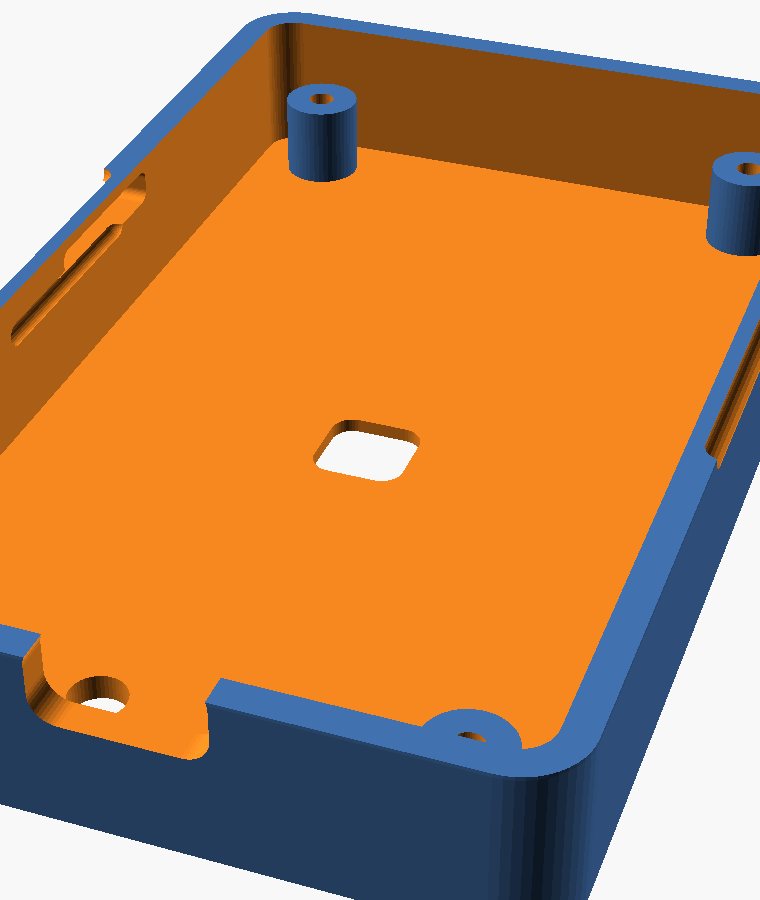
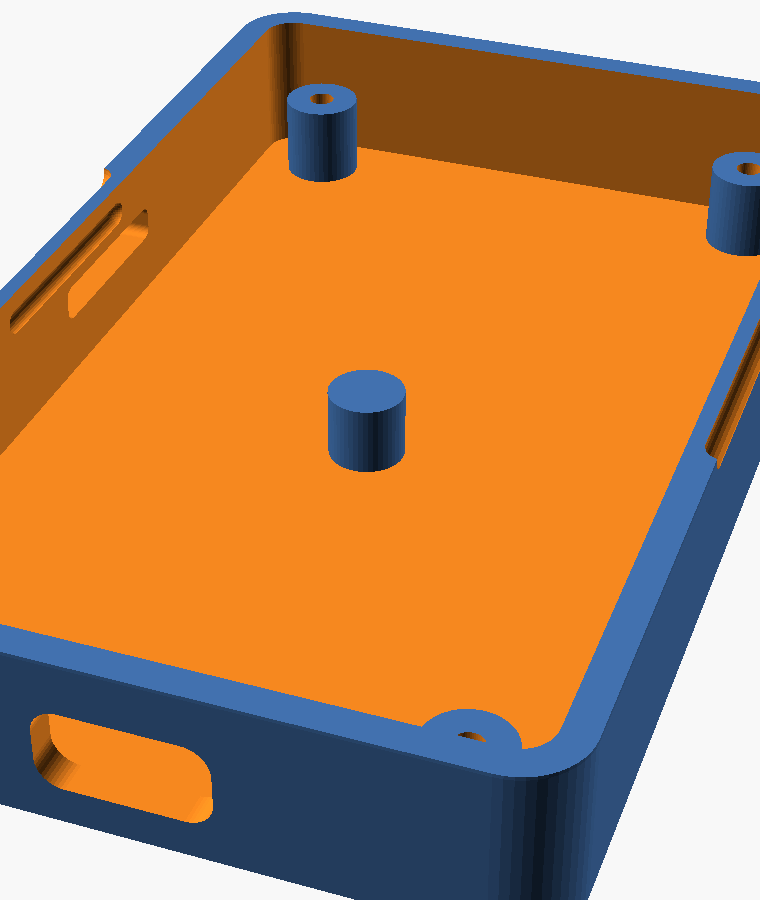
CYD : connecteurs sous la carte, et plot de lumiere plein
Deux corrections signalees par l'utilisateur.

L'USB-C et le lecteur SD sont soudes AU DOS de la carte : leur corps
pend SOUS elle, entre le fond et la carte. Je les avais cales sur la
face ecran, donc 5 mm trop haut. Ils se placent maintenant par rapport
a la face arriere, et l'USB-C est descendu pour que son ouverture
s'arrete 0.2 sous le bord de la jupe.

La LED ne veut pas d'insert : l'utilisateur imprime tout le boitier en
PETG transparent, il lui faut juste de la matiere qui relie la LED au
fond. Nouveau type de decoupe « pipe » - un plot PLEIN monte du fond,
sans trou ni piece rapportee - ajoute a la palette sous « Plot de
lumiere ». Sur le CYD il monte a 5.5, soit 1.5 sous la carte pour
loger le corps de la LED.

Au passage, un troisieme bug : SKIRT_H et LID_BAND etaient figes a 7 et
9 dans le builder, ecrits avant que la hauteur de jupe soit reglable.
L'avertissement « traverse la jupe » restait donc allume sur un
boitier plat dont les decoupes passaient pourtant dessous, et la bande
dessinee sur les parois etait fausse. Les deux suivent le reglage.

Et snap_z, fige a 3.5 sous le joint, tombait sous le bord libre d'une
jupe courte : les bossages ne retenaient plus rien. Borne a 60 % de la
hauteur de jupe, sans changement a la valeur par defaut.

Le modele CYD ne leve plus aucun avertissement. Fond et couvercle :
Simple yes, 2 volumes.

Changed region(s): [[0.0303, 0.6844, 0.3026, 0.9333], [0.0, 0.1867, 0.2118, 0.3733], [0.3934, 0.4044, 0.575, 0.56]]

diff --git a/builder.html b/builder.html
@@ -509,6 +509,9 @@ const EN = {
   'Grille ronde': 'Round grid', 'Nid d\'abeille': 'Honeycomb',
   'Rect libre': 'Custom rect', 'Rond libre': 'Custom hole',
   'Guide LED 1.75': 'LED pipe 1.75', 'Poussoir 7': 'Push btn 7',
+  'Plot de lumière': 'Light post', 'Ø 6 · plein': 'Ø 6 · solid',
+  'Plot PLEIN monté du fond jusque sous une LED soudée au dos de la carte. Aucun trou : dans un boîtier translucide, c\'est la matière qui conduit la couleur jusqu\'à la paroi. Largeur = diamètre, hauteur = jusqu\'où il monte.':
+    'A SOLID post from the floor up under an LED soldered on the back of the board. No hole: in a translucent case the material itself carries the colour to the wall. Width = diameter, height = how far up it goes.',
   'Poussoir 12': 'Push btn 12',
   '8.7 × 2.9 · support': '8.7 × 2.9 · mount',
   'Ø 1.8 · filament': 'Ø 1.8 · filament',
@@ -773,7 +776,7 @@ Object.assign(EN, {
   'CYD jaune ESP32-2432S028R — 2.8″': 'Yellow CYD ESP32-2432S028R — 2.8″',
   'Le « cheap yellow display » : carte 50 × 86 vissée par l’avant sur quatre entretoises, dalle 2.8″ affleurant le couvercle, USB-C, RESET/BOOT, lecteur microSD et guide de lumière au-dessus de la LED RGB.':
     'The “cheap yellow display”: 50 × 86 board screwed from the front onto four standoffs, 2.8″ panel flush with the lid, USB-C, RESET/BOOT, microSD reader and a light guide above the RGB LED.',
-  'Écran 2.8″ 240×320': '2.8″ 240×320 screen', 'Guide LED RGB': 'RGB LED guide',
+  'Écran 2.8″ 240×320': '2.8″ 240×320 screen', 'Plot LED RGB': 'RGB LED post',
   'Projet complet : boîte 176 × 117 × 45, écran clipsé sous le couvercle avec sa fenêtre décalée, la caméra qui regarde au-dessus de l’écran, et les 7 ouvertures de bord (USB-A, 2× USB-C, microSD, ON/OFF, RESET, BOOT) à la bonne altitude.':
     'Complete project: 176 × 117 × 45 box, display clipped under the lid with its offset window, the camera looking out above the screen, and the 7 edge openings (USB-A, 2× USB-C, microSD, ON/OFF, RESET, BOOT) at the right height.',
   'Accès bouton': 'Button access', '151.6 × 83.4 · couvercle': '151.6 × 83.4 · lid',
@@ -841,8 +844,11 @@ function setLang(l) {
 // Constantes géométrie (doivent suivre esp32-box.scad)
 // ---------------------------------------------------------------
 const CORNER_R = 9;      // rayon des coins
-const LID_BAND = 9;      // zone haute affichée (jupe + rainure de clip)
-const SKIRT_H = 7;       // jupe réelle du couvercle (lip_h du .scad)
+// Jupe réelle du couvercle : elle suit le réglage, elle n'est plus figée
+// à 7. Sans ça, l'avertissement « traverse la jupe » restait allumé sur
+// un boîtier plat dont les découpes passaient pourtant dessous.
+const skirtH = () => state.lipH;
+const lidBand = () => state.lipH + 2;   // jupe + rainure de clip, à l'écran
 const GRID = 0.5;        // pas de la grille (mm)
 const SNAP_TOL = 5;      // tolérance d'aimantation (px)
 
@@ -923,6 +929,8 @@ const PALETTE = [
     tip: 'Jack audio 3.5 mm châssis : se visse dans la paroi avec son écrou' },
   { label: 'Guide LED 1.75', sub: 'Ø 1.8 · filament', type: 'circle', d: 1.8,
     tip: 'Bout de filament transparent en guide de lumière pour une LED témoin' },
+  { label: 'Plot de lumière', sub: 'Ø 6 · plein', type: 'pipe', w: 6, h: 6, floorOnly: true,
+    tip: 'Plot PLEIN monté du fond jusque sous une LED soudée au dos de la carte. Aucun trou : dans un boîtier translucide, c\'est la matière qui conduit la couleur jusqu\'à la paroi. Largeur = diamètre, hauteur = jusqu\'où il monte.' },
   { label: 'Poussoir 7',   sub: 'Ø 7.2',    type: 'circle', d: 7.2,
     tip: 'Petit bouton poussoir châssis 7 mm (type PBS-110)' },
   { label: 'Poussoir 12',  sub: 'Ø 12.2',   type: 'circle', d: 12.2,
@@ -1286,7 +1294,7 @@ function render() {
     const cw = CORNER_R * S;
     g.push(`<rect x="${x0}" y="${y0}" width="${cw}" height="${fh * S}" fill="rgba(240,179,80,.06)"/>`);
     g.push(`<rect x="${x0 + fw * S - cw}" y="${y0}" width="${cw}" height="${fh * S}" fill="rgba(240,179,80,.06)"/>`);
-    g.push(`<rect x="${x0}" y="${y0}" width="${fw * S}" height="${LID_BAND * S}" fill="rgba(240,179,80,.08)"/>`);
+    g.push(`<rect x="${x0}" y="${y0}" width="${fw * S}" height="${lidBand() * S}" fill="rgba(240,179,80,.08)"/>`);
     g.push(`<text pointer-events="none" x="${x0 + fw * S / 2}" y="${y0 + 13}" fill="#5b6274" font-size="10" text-anchor="middle">${t('jupe + clips du couvercle')}</text>`);
   } else {
     // coins arrondis de la boîte
@@ -1689,7 +1697,7 @@ function cutNotes(c) {
   if (isFlat(c.face)) return [];
   const hh = c.type === 'circle' || isBtnType(c.type) ? c.d / 2
            : c.type === 'usbc' ? 5 : c.h / 2;
-  return (c.z + hh > state.inner.h - SKIRT_H)
+  return (c.z + hh > state.inner.h - skirtH())
     ? [t('traverse la jupe — régénère le couvercle')] : [];
 }
 
@@ -2906,6 +2914,10 @@ function applyTemplateCYD() {
   const IH = SH + PCB_T + SCR_H;                 // 12 : la dalle touche le couvercle
   const W = PCB_W + 2 * JEU, D = PCB_D + 2 * JEU;
   const dessus = SH + PCB_T;       // face écran, depuis le fond intérieur
+  // L'USB-C et le lecteur SD sont montés au DOS : leur corps pend SOUS
+  // la carte, entre le fond et elle. Leurs ouvertures se placent donc
+  // par rapport à SH, la face arrière, et non par rapport à la dalle.
+  const dos = SH;
 
   // Repère : Y+ vers le HAUT de la carte, le port USB-C est en bas.
   const haut = y => r1(PCB_D / 2 - y);      // cote donnée depuis le bord haut
@@ -2945,21 +2957,25 @@ function applyTemplateCYD() {
           z: bas(6.5), d: 4 });
 
   // LED RGB : 4 × 4, centrée en largeur, à 44 du bord haut. Elle éclaire
-  // vers le fond : le guide de lumière est donc dans le fond, à imprimer
-  // en PETG — c'est lui qui ressort la couleur.
-  cut({ face: 'floor', type: 'insert', label: 'Guide LED RGB',
-        off: 0, z: haut(46), w: 7, h: 7, skin: 0.8 });
+  // vers le fond : un plot PLEIN monte du fond jusque sous elle et lui
+  // sert de guide. Rien à percer, rien à rapporter — dans un boîtier
+  // translucide c'est la matière qui conduit la couleur.
+  cut({ face: 'floor', type: 'pipe', label: 'Plot LED RGB',
+        off: 0, z: haut(46), w: 6, h: r1(SH - 1.5) });
 
-  // USB-C au ras du bord bas, centré sur la carte
+  // USB-C au ras du bord bas, centré sur la carte. Sa prise fait 3.2 de
+  // haut sous la carte, soit de 3.8 à 7. L'ouverture est calée 0.2 sous
+  // le bord de la jupe : à 6 de haut elle enveloppe largement la prise
+  // et cesse d'entamer le couvercle.
   cut({ face: 'front', type: 'rect', label: 'USB-C',
-        off: 0, z: r1(dessus + 1.6), w: 12, h: 6 });
+        off: 0, z: r1(IH - 4 - 0.2 - 3), w: 12, h: 6 });
 
   // Lecteur microSD : 28.5 du haut à 42.5 du bas. Il est à droite sur
   // une photo du DOS, donc à gauche quand on regarde l'écran — c'est
   // cette vue-là que montre le plan. Un clic sur la découpe et le
   // champ « Face » le renvoie à droite si je me suis trompé de sens.
   cut({ face: 'left', type: 'rect', label: 'Carte microSD',
-        off: -haut(36), z: r1(dessus + 1.1), w: 15, h: 2.5 });
+        off: -haut(36), z: r1(dos - 0.9), w: 15, h: 2.5 });
 
   state.tpl = { id: 'cyd', v: TPL_CYD_V };
   state.face = 'lid';
@@ -3152,7 +3168,7 @@ function buildStatic() {
     tabs.append(b);
   }
   const PAL_CATS = [
-    ['Connecteurs', ['USB-C encastré', 'USB-C', 'USB-A', 'micro-USB', 'Rangée ports', 'Ports power bank', 'Carte microSD', 'Caméra', 'Interrupteur à glissière', 'Accès bouton', 'Rocker KCD1', 'Jack 3.5', 'Poussoir 7', 'Poussoir 12', 'PG7', 'Guide LED 1.75']],
+    ['Connecteurs', ['USB-C encastré', 'USB-C', 'USB-A', 'micro-USB', 'Rangée ports', 'Ports power bank', 'Carte microSD', 'Caméra', 'Interrupteur à glissière', 'Accès bouton', 'Plot de lumière', 'Rocker KCD1', 'Jack 3.5', 'Poussoir 7', 'Poussoir 12', 'PG7', 'Guide LED 1.75']],
     ['Boutons tact 6×6', ['Bouton languette', 'Bouton poussoir']],
     ['Fenêtres & inserts', ['Écran 7″ 1024×600', 'Fenêtre LED', 'Fenêtre radar', 'Insert libre', 'Fenêtre libre']],
     ['Aérations', ['Fentes vert.', 'Fentes horiz.', 'Grille ronde', 'Nid d\'abeille']],

diff --git a/docs/Elements-Reference.md b/docs/Elements-Reference.md
@@ -329,10 +329,14 @@ flush with the lid's inner face, so the opening is cut at the glass
 size plus 0.4 of clearance rather than overlapping it — the exact
 active area is not known here, and a wider overlap would crop it.
 
-**The light guide is in the floor.** The RGB LED shines down at the
-base, so its guide is an insert in the floor, right under it: print
-that one piece in PETG and it carries the colour out as a status
-indicator.
+**The light post is solid.** The RGB LED shines down at the base, so
+a **Light post** — a plain cylinder, no hole, no separate part —
+climbs from the floor to just under it, stopping 1.5 mm short to
+leave room for the LED body. Print the case in translucent PETG and
+the material itself carries the colour out to the wall. It is a
+palette item like any other: drop one on the *Floor* tab wherever a
+board has an LED on its back, and set width (its diameter) and height
+(how far up it goes).
 
 **A flat box needs different proportions.** Two settings this
 template exposes because 12 mm of inner height cannot keep the
@@ -340,9 +344,12 @@ defaults: the **skirt** drops from 7 to 4, and the **corner radius**
 from 9 to 5 — at 9 the rounded inner corners (radius 6.6) bite into
 the board's corners.
 
-The USB-C and the card slot sit right under the seam, so both cross
-the lid skirt and notch it. The builder says so; regenerate the lid
-and it is handled.
+**Both back connectors sit under the board, not above it.** The USB-C
+and the card reader are soldered on the back face, so their bodies
+hang between the board and the floor — the openings are placed off
+the board's *back* face, and the USB-C is dropped so its top stops
+0.2 mm below the skirt. Nothing crosses the lid skirt: the template
+comes up with no warnings at all.
 
 ![CYD base](../preview/cyd-fond.png)
 
